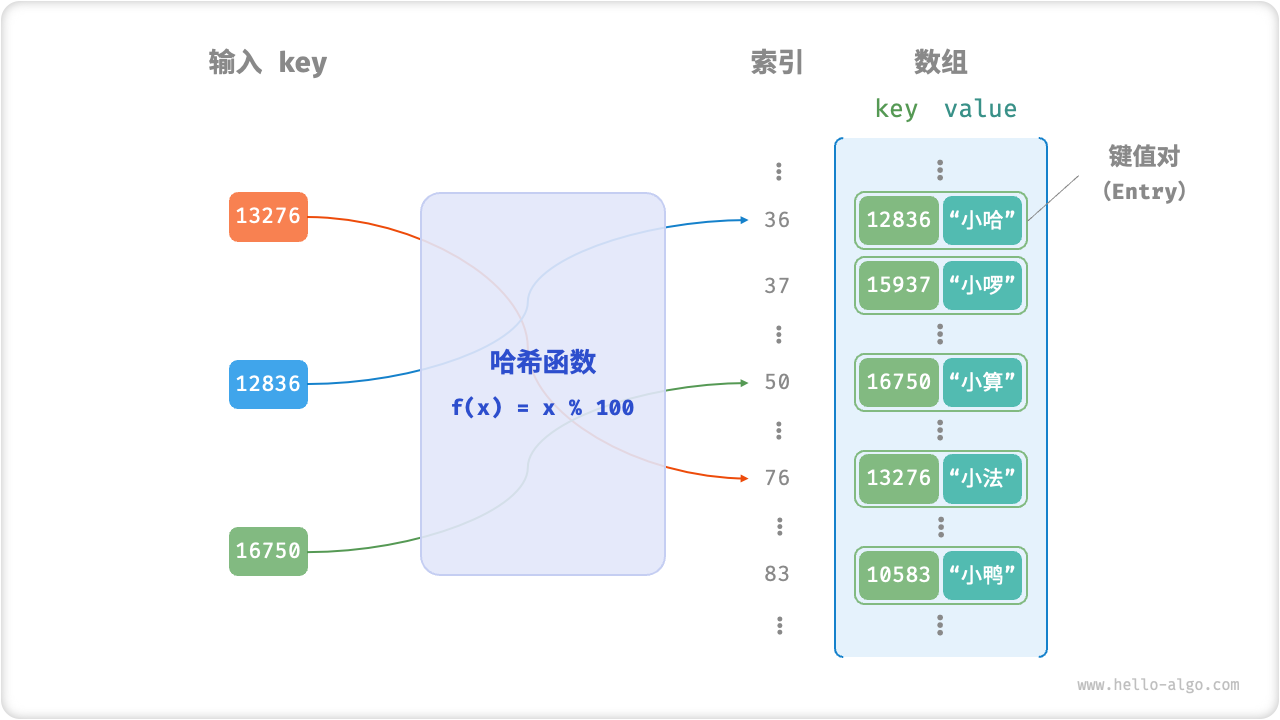
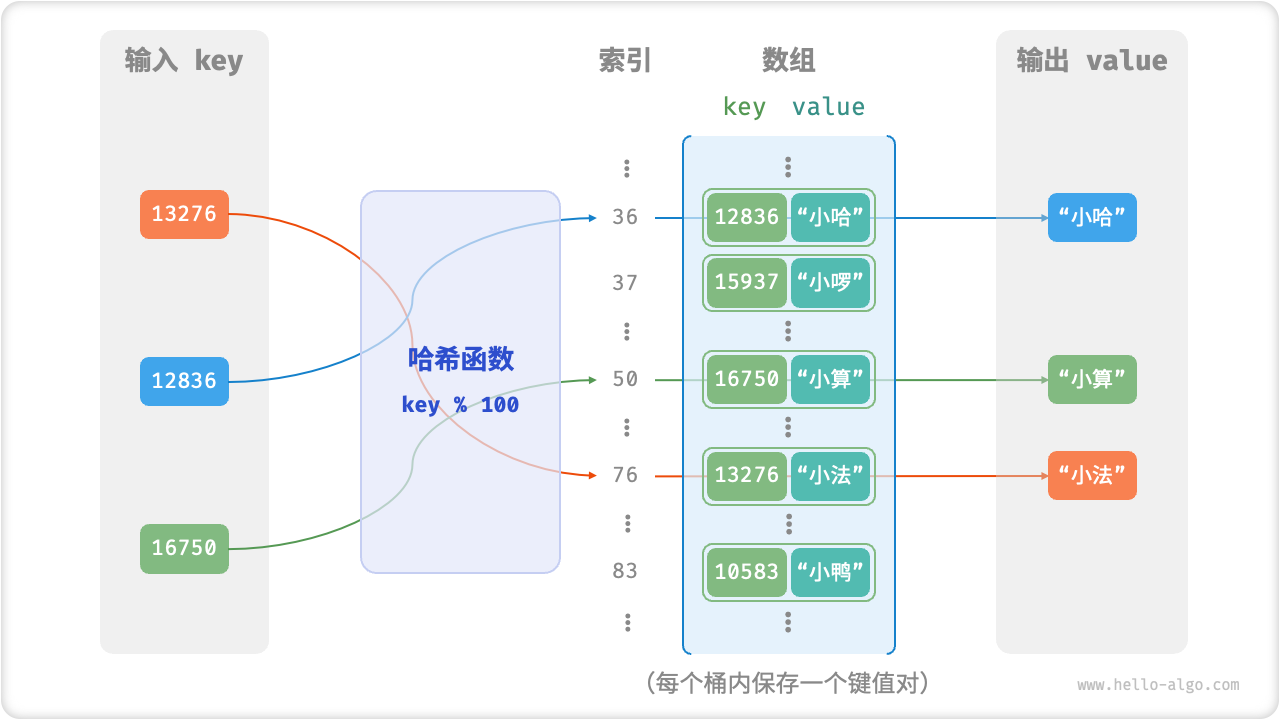
Polish the section of hash map and hash collision.

diff --git a/docs/chapter_hashing/hash_map.md b/docs/chapter_hashing/hash_map.md
@@ -1,18 +1,16 @@
 # 哈希表
 
-哈希表通过建立「键 key」与「值 value」之间的映射，实现高效的元素查询。具体而言，我们向哈希表输入一个 key，则可以在 $O(1)$ 时间内获取对应的 value 。
+「哈希表 Hash Table」通过建立键 `key` 与值 `value` 之间的映射，实现高效的元素查询。具体而言，我们向哈希表输入一个 `key` ，则可以在 $O(1)$ 时间内获取对应的 `value` 。
 
 以一个包含 $n$ 个学生的数据库为例，每个学生都有“姓名 `name`”和“学号 `id`”两项数据。假如我们希望实现查询功能，例如“输入一个学号，返回对应的姓名”，则可以采用哈希表来实现。
 
-![哈希表的抽象表示](hash_map.assets/hash_map.png)
+![哈希表的抽象表示](hash_map.assets/hash_table_lookup.png)
 
 除哈希表外，我们还可以使用数组或链表实现元素查询，其中：
 
 - 查询元素需要遍历所有元素，使用 $O(n)$ 时间；
 - 添加元素仅需添加至尾部即可，使用 $O(1)$ 时间；
 - 删除元素需要先查询再删除，使用 $O(n)$ 时间；
-
-然而，在哈希表中进行增删查的时间复杂度都是 $O(1)$ 。哈希表全面胜出！因此，哈希表常用于对查找效率要求较高的场景。
 
 <div class="center-table" markdown>
 
@@ -23,6 +21,8 @@
 | 删除元素 | $O(n)$ | $O(n)$ | $O(1)$ |
 
 </div>
+
+观察发现，在哈希表中进行增删查改的时间复杂度都是 $O(1)$ ，非常高效。因此，哈希表常用于对查找效率要求较高的场景。
 
 ## 哈希表常用操作
 
@@ -428,28 +428,25 @@
     });
     ```
 
-## 哈希函数
+## 哈希表简单实现
 
-哈希表的底层实现为数组，同时可能包含链表、二叉树（红黑树）等数据结构，以提高查询性能（将在下节讨论）。
+我们先考虑最简单的情况，**仅用一个数组来实现哈希表**。在哈希表中，我们通常将数组中的每个空位称为「桶 Bucket」，每个桶可存储一个键值对。因此，查询操作就是定位输入的 `key` 对应的桶，从而得到 `value` 。
 
-首先考虑最简单的情况，**仅使用一个数组来实现哈希表**。通常，我们将数组中的每个空位称为「桶 Bucket」，用于存储键值对。
+那么，如何基于 `key` 来定位对应的桶呢？这是通过「哈希函数 Hash Function」实现的。哈希函数的作用是将一个较大的输入空间映射到一个较小的输出空间。在哈希表中，输入空间是所有 `key` ，输出空间是所有桶（数组索引）。换句话说，**输入一个 `key` ，我们可以通过哈希函数得到该 `key` 对应的键值对存储在数组中的位置**。
 
-我们将键值对 key, value 封装成一个类 `Pair` ，并将所有 `Pair` 放入数组中。这样，数组中的每个 `Pair` 都具有唯一的索引。为了建立 key 和索引之间的映射关系，我们需要使用「哈希函数 Hash Function」。
-
-设哈希表的数组为 `buckets` ，哈希函数为 `f(x)` ，那么查询操作的步骤如下：
-
-1. 输入 `key` ，通过哈希函数计算出索引 `index` ，即 `index = f(key)` ；
-2. 通过索引在数组中访问到键值对 `pair` ，即 `pair = buckets[index]` ，然后从 `pair` 中获取对应的 `value` ；
-
-以学生数据 `key 学号 -> value 姓名` 为例，我们可以设计如下哈希函数：
+哈希函数的计算过程分为两步：输入一个 `key` ，首先通过函数 `hash(key)` 计算得到哈希值，接下来将哈希值对桶数量（数组长度）取模，从而获取该 `key` 对应的数组索引 `index` 。计算公式如下
 
 $$
-f(x) = x \bmod {100}
+index = \text{hash}(key) \bmod {c}
 $$
 
-其中 $\bmod$ 表示取余运算。
+其中， $\bmod$ 表示取余运算， $c$ 为桶数量（数组长度）。随后，我们就可以利用 `index` 在哈希表中访问对应的桶，从而获取 `value` 。
+
+设数组长度 $c = 100$ , $\text{hash}(key) = key$ ，易得哈希函数为 $key \bmod 100$ 。下图以 `key` 学号和 `value` 姓名为例，展示了哈希函数的工作原理。
 
 ![哈希函数工作原理](hash_map.assets/hash_function.png)
+
+以下代码给出了一个简单哈希表实现。其中，我们将 `key` 和 `value` 封装成一个类 `Pair` ，以表示键值对。
 
 === "Java"
 
@@ -541,18 +538,14 @@ $$
 
 ## 哈希冲突
 
-细心的你可能已经注意到，**在某些情况下，哈希函数 $f(x) = x \bmod 100$ 可能无法正常工作**。具体来说，当输入的 key 后两位相同时，哈希函数的计算结果也会相同，从而指向同一个 value 。例如，查询学号为 $12836$ 和 $20336$ 的两个学生时，我们得到：
+本质上看，哈希函数的是将一个庞大的输入空间（`key` 范围）映射到一个较小的输出空间（数组索引范围）。因此，**理论上一定存在”多个输入对应相同输出”的情况**。
+
+对于上述示例中的哈希函数，当输入的 `key` 后两位相同时，哈希函数的输出结果也相同。例如，查询学号为 $12836$ 和 $20336$ 的两个学生时，我们得到：
 
 $$
-f(12836) = f(20336) = 36
+12836 \bmod 100 = 20336 \bmod 100 = 36
 $$
 
-这两个学号指向了同一个姓名，这显然是错误的。我们把这种情况称为「哈希冲突 Hash Collision」。在后续章节中，我们将讨论如何解决哈希冲突的问题。
+两个学号指向了同一个姓名，这显然是不对的。我们把这种情况称为“哈希冲突”。在下节中，我们将重点讨论如何解决冲突问题。
 
 ![哈希冲突示例](hash_map.assets/hash_collision.png)
-
-综上所述，一个优秀的哈希函数应具备以下特性：
-
-- 尽可能减少哈希冲突的发生；
-- 查询效率高且稳定，能够在绝大多数情况下达到 $O(1)$ 时间复杂度；
-- 较高的空间利用率，即使“键值对占用空间 / 哈希表总占用空间”比例最大化；

diff --git a/docs/chapter_hashing/hash_collision.md b/docs/chapter_hashing/hash_collision.md
@@ -2,16 +2,14 @@
 
 在理想情况下，哈希函数为每个输入生成唯一的输出，实现 key 和数组索引的一一对应。但实际上，**哈希函数的输入空间通常远大于输出空间**，因此多个输入产生相同输出的情况是不可避免的。例如，输入空间为全体整数，输出空间为数组容量大小，则必然有多个整数映射至同一数组索引。
 
-这种多个输入对应同一输出索引的现象被称为「哈希冲突 Hash Collision」。哈希冲突会导致查询结果错误，严重影响哈希表的可用性。哈希冲突的解决方法主要有两种：
+这种多个输入对应同一输出索引的现象被称为「哈希冲突 Hash Collision」。哈希冲突会导致查询结果错误，严重影响哈希表的可用性。哈希冲突的处理方法主要有两种：
 
 - **扩大哈希表容量**：哈希表容量越大，键值对聚集的概率就越低。极端情况下，当输入空间和输出空间大小相等时，哈希表等同于数组，每个 key 都对应唯一的数组索引。
-- **优化哈希表结构**：常用方法包括链式地址和开放寻址。
+- **优化哈希表结构**：常用方法包括链式地址和开放寻址。这类方法的思路是通过改良数据结构，使得哈希表可以在发生哈希冲突时仍然可以正常工作。当然，这些优化往往是以牺牲时间效率为代价的。
 
 ## 哈希表扩容
 
-哈希函数的最后一步通常是对桶数量 $n$ 取余，作用是将哈希值映射到桶索引范围，从而将 key 放入对应的桶中。当哈希表容量越大（即 $n$ 越大）时，多个 key 被分配到同一个桶中的概率就越低，冲突就越少。
-
-因此，**当哈希表内的冲突总体较为严重时，编程语言通常通过扩容哈希表来缓解冲突**。类似于数组扩容，哈希表扩容需将所有键值对从原哈希表迁移至新哈希表，开销较大。
+哈希函数的最后一步通常是对桶数量 $n$ 取余，作用是将哈希值映射到桶索引范围，从而将 key 放入对应的桶中。当哈希表容量越大（即 $n$ 越大）时，多个 key 被分配到同一个桶中的概率就越低，冲突就越少。因此，**当哈希表内的冲突总体较为严重时，编程语言通常通过扩容哈希表来缓解冲突**。类似于数组扩容，哈希表扩容需将所有键值对从原哈希表迁移至新哈希表，开销较大。
 
 编程语言通常使用「负载因子 Load Factor」来衡量哈希冲突的严重程度，**定义为哈希表中元素数量除以桶数量**，常作为哈希表扩容的触发条件。在 Java 中，当负载因子超过 $0.75$ 时，系统会将 HashMap 容量扩展为原先的 $2$ 倍。
 
@@ -19,7 +17,7 @@
 
 在原始哈希表中，每个桶仅能存储一个键值对。「链式地址 Separate Chaining」将单个元素转换为链表，将键值对作为链表节点，将所有发生冲突的键值对都存储在同一链表中。
 
-![链式地址哈希表](hash_collision.assets/hash_collision_chaining.png)
+![链式地址哈希表](hash_collision.assets/hash_table_chaining.png)
 
 链式地址下，哈希表的操作方法包括：
 
@@ -27,7 +25,7 @@
 - **添加元素**：先通过哈希函数访问链表头节点，然后将节点（即键值对）添加到链表中。
 - **删除元素**：根据哈希函数的结果访问链表头部，接着遍历链表以查找目标节点，并将其删除。
 
-尽管链式地址法解决了哈希冲突问题，但仍存在一些局限性，包括：
+该方法存在一些局限性，包括：
 
 - **占用空间增大**，由于链表或二叉树包含节点指针，相比数组更加耗费内存空间；
 - **查询效率降低**，因为需要线性遍历链表来查找对应元素；
@@ -131,16 +129,16 @@
 
 ## 开放寻址
 
-「开放寻址 Open Addressing」不引入额外的数据结构，而是通过“多次探测”来解决哈希冲突，探测方式主要包括线性探测、平方探测、多次哈希。
+「开放寻址 Open Addressing」不引入额外的数据结构，而是通过“多次探测”来处理哈希冲突，探测方式主要包括线性探测、平方探测、多次哈希。
 
 ### 线性探测
 
-线性探测采用固定步长的线性查找来解决哈希冲突。
+线性探测采用固定步长的线性查找来进行探测，对应的哈希表操作方法为：
 
 - **插入元素**：通过哈希函数计算数组索引，若发现桶内已有元素，则从冲突位置向后线性遍历（步长通常为 $1$ ），直至找到空位，将元素插入其中。
 - **查找元素**：若发现哈希冲突，则使用相同步长向后线性遍历，直到找到对应元素，返回 value 即可；或者若遇到空位，说明目标键值对不在哈希表中，返回 $\text{None}$ 。
 
-![线性探测](hash_collision.assets/hash_collision_linear_probing.png)
+![线性探测](hash_collision.assets/hash_table_linear_probing.png)
 
 然而，线性探测存在以下缺陷：
 
